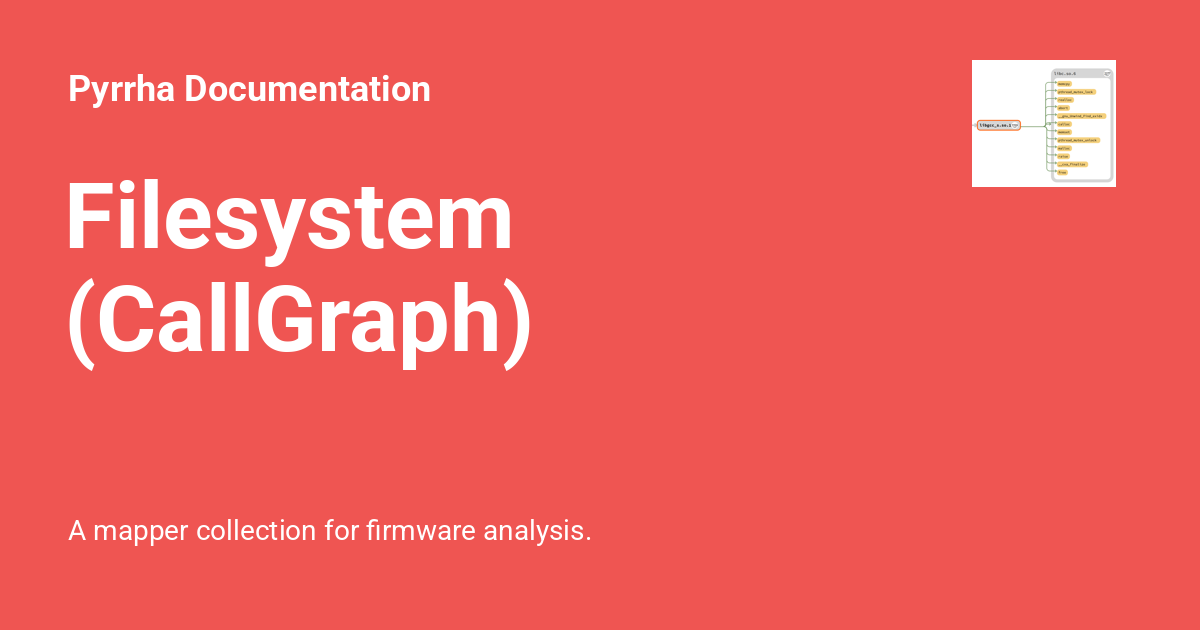
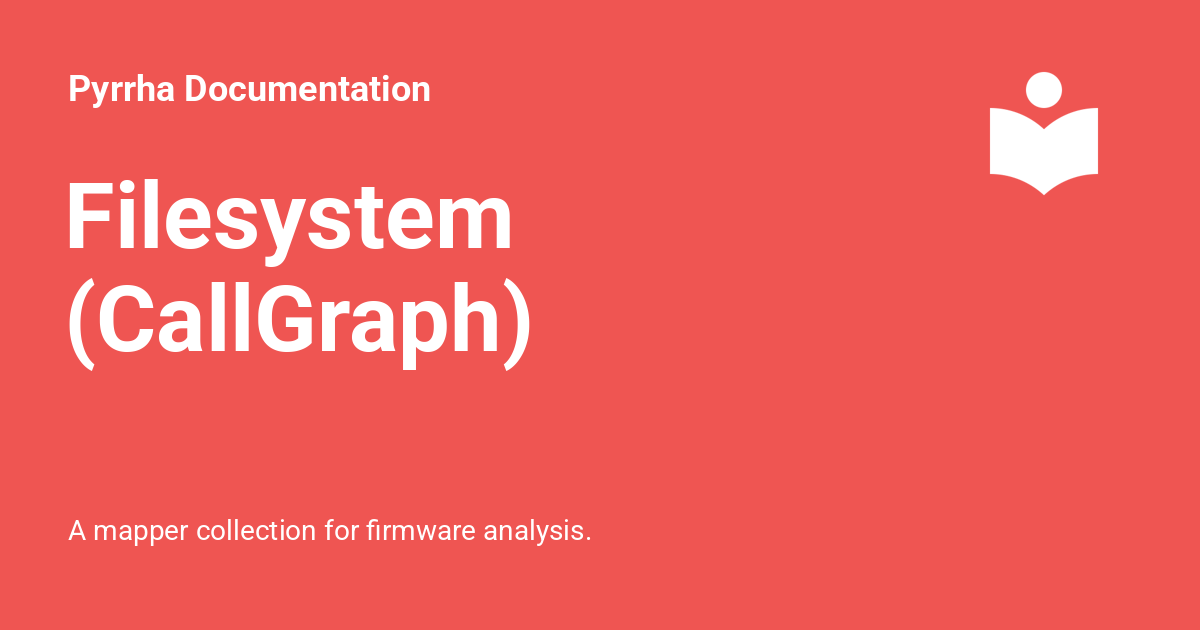
Deployed 4620d10 to v1.0.0 with MkDocs 1.6.1 and mike 2.1.3

Changed region(s): [[0.8017, 0.0905, 0.9558, 0.3016]]

diff --git a/v1.0.0/404.html b/v1.0.0/404.html
@@ -89,7 +89,8 @@
   <nav class="md-header__inner md-grid" aria-label="Header">
     <a href="/pyrrha/v1.0.0/." title="Pyrrha Documentation" class="md-header__button md-logo" aria-label="Pyrrha Documentation" data-md-component="logo">
       
-  <img src="/pyrrha/v1.0.0/img/imports_cropped.png" alt="logo">
+  
+  <svg xmlns="http://www.w3.org/2000/svg" viewBox="0 0 24 24"><path d="M12 8a3 3 0 0 0 3-3 3 3 0 0 0-3-3 3 3 0 0 0-3 3 3 3 0 0 0 3 3m0 3.54C9.64 9.35 6.5 8 3 8v11c3.5 0 6.64 1.35 9 3.54 2.36-2.19 5.5-3.54 9-3.54V8c-3.5 0-6.64 1.35-9 3.54"/></svg>
 
     </a>
     <label class="md-header__button md-icon" for="__drawer">
@@ -221,7 +222,8 @@
   <label class="md-nav__title" for="__drawer">
     <a href="/pyrrha/v1.0.0/." title="Pyrrha Documentation" class="md-nav__button md-logo" aria-label="Pyrrha Documentation" data-md-component="logo">
       
-  <img src="/pyrrha/v1.0.0/img/imports_cropped.png" alt="logo">
+  
+  <svg xmlns="http://www.w3.org/2000/svg" viewBox="0 0 24 24"><path d="M12 8a3 3 0 0 0 3-3 3 3 0 0 0-3-3 3 3 0 0 0-3 3 3 3 0 0 0 3 3m0 3.54C9.64 9.35 6.5 8 3 8v11c3.5 0 6.64 1.35 9 3.54 2.36-2.19 5.5-3.54 9-3.54V8c-3.5 0-6.64 1.35-9 3.54"/></svg>
 
     </a>
     Pyrrha Documentation

diff --git a/v1.0.0/contributing/dev_mapper/index.html b/v1.0.0/contributing/dev_mapper/index.html
@@ -135,7 +135,8 @@
   <nav class="md-header__inner md-grid" aria-label="Header">
     <a href="../.." title="Pyrrha Documentation" class="md-header__button md-logo" aria-label="Pyrrha Documentation" data-md-component="logo">
       
-  <img src="../../img/imports_cropped.png" alt="logo">
+  
+  <svg xmlns="http://www.w3.org/2000/svg" viewBox="0 0 24 24"><path d="M12 8a3 3 0 0 0 3-3 3 3 0 0 0-3-3 3 3 0 0 0-3 3 3 3 0 0 0 3 3m0 3.54C9.64 9.35 6.5 8 3 8v11c3.5 0 6.64 1.35 9 3.54 2.36-2.19 5.5-3.54 9-3.54V8c-3.5 0-6.64 1.35-9 3.54"/></svg>
 
     </a>
     <label class="md-header__button md-icon" for="__drawer">
@@ -267,7 +268,8 @@
   <label class="md-nav__title" for="__drawer">
     <a href="../.." title="Pyrrha Documentation" class="md-nav__button md-logo" aria-label="Pyrrha Documentation" data-md-component="logo">
       
-  <img src="../../img/imports_cropped.png" alt="logo">
+  
+  <svg xmlns="http://www.w3.org/2000/svg" viewBox="0 0 24 24"><path d="M12 8a3 3 0 0 0 3-3 3 3 0 0 0-3-3 3 3 0 0 0-3 3 3 3 0 0 0 3 3m0 3.54C9.64 9.35 6.5 8 3 8v11c3.5 0 6.64 1.35 9 3.54 2.36-2.19 5.5-3.54 9-3.54V8c-3.5 0-6.64 1.35-9 3.54"/></svg>
 
     </a>
     Pyrrha Documentation

diff --git a/v1.0.0/mappers/exe-decomp/index.html b/v1.0.0/mappers/exe-decomp/index.html
@@ -135,7 +135,8 @@
   <nav class="md-header__inner md-grid" aria-label="Header">
     <a href="../.." title="Pyrrha Documentation" class="md-header__button md-logo" aria-label="Pyrrha Documentation" data-md-component="logo">
       
-  <img src="../../img/imports_cropped.png" alt="logo">
+  
+  <svg xmlns="http://www.w3.org/2000/svg" viewBox="0 0 24 24"><path d="M12 8a3 3 0 0 0 3-3 3 3 0 0 0-3-3 3 3 0 0 0-3 3 3 3 0 0 0 3 3m0 3.54C9.64 9.35 6.5 8 3 8v11c3.5 0 6.64 1.35 9 3.54 2.36-2.19 5.5-3.54 9-3.54V8c-3.5 0-6.64 1.35-9 3.54"/></svg>
 
     </a>
     <label class="md-header__button md-icon" for="__drawer">
@@ -267,7 +268,8 @@
   <label class="md-nav__title" for="__drawer">
     <a href="../.." title="Pyrrha Documentation" class="md-nav__button md-logo" aria-label="Pyrrha Documentation" data-md-component="logo">
       
-  <img src="../../img/imports_cropped.png" alt="logo">
+  
+  <svg xmlns="http://www.w3.org/2000/svg" viewBox="0 0 24 24"><path d="M12 8a3 3 0 0 0 3-3 3 3 0 0 0-3-3 3 3 0 0 0-3 3 3 3 0 0 0 3 3m0 3.54C9.64 9.35 6.5 8 3 8v11c3.5 0 6.64 1.35 9 3.54 2.36-2.19 5.5-3.54 9-3.54V8c-3.5 0-6.64 1.35-9 3.54"/></svg>
 
     </a>
     Pyrrha Documentation

diff --git a/v1.0.0/mappers/fs-cg/index.html b/v1.0.0/mappers/fs-cg/index.html
@@ -135,7 +135,8 @@
   <nav class="md-header__inner md-grid" aria-label="Header">
     <a href="../.." title="Pyrrha Documentation" class="md-header__button md-logo" aria-label="Pyrrha Documentation" data-md-component="logo">
       
-  <img src="../../img/imports_cropped.png" alt="logo">
+  
+  <svg xmlns="http://www.w3.org/2000/svg" viewBox="0 0 24 24"><path d="M12 8a3 3 0 0 0 3-3 3 3 0 0 0-3-3 3 3 0 0 0-3 3 3 3 0 0 0 3 3m0 3.54C9.64 9.35 6.5 8 3 8v11c3.5 0 6.64 1.35 9 3.54 2.36-2.19 5.5-3.54 9-3.54V8c-3.5 0-6.64 1.35-9 3.54"/></svg>
 
     </a>
     <label class="md-header__button md-icon" for="__drawer">
@@ -267,7 +268,8 @@
   <label class="md-nav__title" for="__drawer">
     <a href="../.." title="Pyrrha Documentation" class="md-nav__button md-logo" aria-label="Pyrrha Documentation" data-md-component="logo">
       
-  <img src="../../img/imports_cropped.png" alt="logo">
+  
+  <svg xmlns="http://www.w3.org/2000/svg" viewBox="0 0 24 24"><path d="M12 8a3 3 0 0 0 3-3 3 3 0 0 0-3-3 3 3 0 0 0-3 3 3 3 0 0 0 3 3m0 3.54C9.64 9.35 6.5 8 3 8v11c3.5 0 6.64 1.35 9 3.54 2.36-2.19 5.5-3.54 9-3.54V8c-3.5 0-6.64 1.35-9 3.54"/></svg>
 
     </a>
     Pyrrha Documentation

diff --git a/v1.0.0/mappers/fs/index.html b/v1.0.0/mappers/fs/index.html
@@ -135,7 +135,8 @@
   <nav class="md-header__inner md-grid" aria-label="Header">
     <a href="../.." title="Pyrrha Documentation" class="md-header__button md-logo" aria-label="Pyrrha Documentation" data-md-component="logo">
       
-  <img src="../../img/imports_cropped.png" alt="logo">
+  
+  <svg xmlns="http://www.w3.org/2000/svg" viewBox="0 0 24 24"><path d="M12 8a3 3 0 0 0 3-3 3 3 0 0 0-3-3 3 3 0 0 0-3 3 3 3 0 0 0 3 3m0 3.54C9.64 9.35 6.5 8 3 8v11c3.5 0 6.64 1.35 9 3.54 2.36-2.19 5.5-3.54 9-3.54V8c-3.5 0-6.64 1.35-9 3.54"/></svg>
 
     </a>
     <label class="md-header__button md-icon" for="__drawer">
@@ -267,7 +268,8 @@
   <label class="md-nav__title" for="__drawer">
     <a href="../.." title="Pyrrha Documentation" class="md-nav__button md-logo" aria-label="Pyrrha Documentation" data-md-component="logo">
       
-  <img src="../../img/imports_cropped.png" alt="logo">
+  
+  <svg xmlns="http://www.w3.org/2000/svg" viewBox="0 0 24 24"><path d="M12 8a3 3 0 0 0 3-3 3 3 0 0 0-3-3 3 3 0 0 0-3 3 3 3 0 0 0 3 3m0 3.54C9.64 9.35 6.5 8 3 8v11c3.5 0 6.64 1.35 9 3.54 2.36-2.19 5.5-3.54 9-3.54V8c-3.5 0-6.64 1.35-9 3.54"/></svg>
 
     </a>
     Pyrrha Documentation

diff --git a/v1.0.0/mappers/mappers/index.html b/v1.0.0/mappers/mappers/index.html
@@ -135,7 +135,8 @@
   <nav class="md-header__inner md-grid" aria-label="Header">
     <a href="../.." title="Pyrrha Documentation" class="md-header__button md-logo" aria-label="Pyrrha Documentation" data-md-component="logo">
       
-  <img src="../../img/imports_cropped.png" alt="logo">
+  
+  <svg xmlns="http://www.w3.org/2000/svg" viewBox="0 0 24 24"><path d="M12 8a3 3 0 0 0 3-3 3 3 0 0 0-3-3 3 3 0 0 0-3 3 3 3 0 0 0 3 3m0 3.54C9.64 9.35 6.5 8 3 8v11c3.5 0 6.64 1.35 9 3.54 2.36-2.19 5.5-3.54 9-3.54V8c-3.5 0-6.64 1.35-9 3.54"/></svg>
 
     </a>
     <label class="md-header__button md-icon" for="__drawer">
@@ -267,7 +268,8 @@
   <label class="md-nav__title" for="__drawer">
     <a href="../.." title="Pyrrha Documentation" class="md-nav__button md-logo" aria-label="Pyrrha Documentation" data-md-component="logo">
       
-  <img src="../../img/imports_cropped.png" alt="logo">
+  
+  <svg xmlns="http://www.w3.org/2000/svg" viewBox="0 0 24 24"><path d="M12 8a3 3 0 0 0 3-3 3 3 0 0 0-3-3 3 3 0 0 0-3 3 3 3 0 0 0 3 3m0 3.54C9.64 9.35 6.5 8 3 8v11c3.5 0 6.64 1.35 9 3.54 2.36-2.19 5.5-3.54 9-3.54V8c-3.5 0-6.64 1.35-9 3.54"/></svg>
 
     </a>
     Pyrrha Documentation

diff --git a/v1.0.0/changelog/index.html b/v1.0.0/changelog/index.html
@@ -135,7 +135,8 @@
   <nav class="md-header__inner md-grid" aria-label="Header">
     <a href=".." title="Pyrrha Documentation" class="md-header__button md-logo" aria-label="Pyrrha Documentation" data-md-component="logo">
       
-  <img src="../img/imports_cropped.png" alt="logo">
+  
+  <svg xmlns="http://www.w3.org/2000/svg" viewBox="0 0 24 24"><path d="M12 8a3 3 0 0 0 3-3 3 3 0 0 0-3-3 3 3 0 0 0-3 3 3 3 0 0 0 3 3m0 3.54C9.64 9.35 6.5 8 3 8v11c3.5 0 6.64 1.35 9 3.54 2.36-2.19 5.5-3.54 9-3.54V8c-3.5 0-6.64 1.35-9 3.54"/></svg>
 
     </a>
     <label class="md-header__button md-icon" for="__drawer">
@@ -267,7 +268,8 @@
   <label class="md-nav__title" for="__drawer">
     <a href=".." title="Pyrrha Documentation" class="md-nav__button md-logo" aria-label="Pyrrha Documentation" data-md-component="logo">
       
-  <img src="../img/imports_cropped.png" alt="logo">
+  
+  <svg xmlns="http://www.w3.org/2000/svg" viewBox="0 0 24 24"><path d="M12 8a3 3 0 0 0 3-3 3 3 0 0 0-3-3 3 3 0 0 0-3 3 3 3 0 0 0 3 3m0 3.54C9.64 9.35 6.5 8 3 8v11c3.5 0 6.64 1.35 9 3.54 2.36-2.19 5.5-3.54 9-3.54V8c-3.5 0-6.64 1.35-9 3.54"/></svg>
 
     </a>
     Pyrrha Documentation

diff --git a/v1.0.0/installation/index.html b/v1.0.0/installation/index.html
@@ -135,7 +135,8 @@
   <nav class="md-header__inner md-grid" aria-label="Header">
     <a href=".." title="Pyrrha Documentation" class="md-header__button md-logo" aria-label="Pyrrha Documentation" data-md-component="logo">
       
-  <img src="../img/imports_cropped.png" alt="logo">
+  
+  <svg xmlns="http://www.w3.org/2000/svg" viewBox="0 0 24 24"><path d="M12 8a3 3 0 0 0 3-3 3 3 0 0 0-3-3 3 3 0 0 0-3 3 3 3 0 0 0 3 3m0 3.54C9.64 9.35 6.5 8 3 8v11c3.5 0 6.64 1.35 9 3.54 2.36-2.19 5.5-3.54 9-3.54V8c-3.5 0-6.64 1.35-9 3.54"/></svg>
 
     </a>
     <label class="md-header__button md-icon" for="__drawer">
@@ -267,7 +268,8 @@
   <label class="md-nav__title" for="__drawer">
     <a href=".." title="Pyrrha Documentation" class="md-nav__button md-logo" aria-label="Pyrrha Documentation" data-md-component="logo">
       
-  <img src="../img/imports_cropped.png" alt="logo">
+  
+  <svg xmlns="http://www.w3.org/2000/svg" viewBox="0 0 24 24"><path d="M12 8a3 3 0 0 0 3-3 3 3 0 0 0-3-3 3 3 0 0 0-3 3 3 3 0 0 0 3 3m0 3.54C9.64 9.35 6.5 8 3 8v11c3.5 0 6.64 1.35 9 3.54 2.36-2.19 5.5-3.54 9-3.54V8c-3.5 0-6.64 1.35-9 3.54"/></svg>
 
     </a>
     Pyrrha Documentation

diff --git a/v1.0.0/license/index.html b/v1.0.0/license/index.html
@@ -128,7 +128,8 @@
   <nav class="md-header__inner md-grid" aria-label="Header">
     <a href=".." title="Pyrrha Documentation" class="md-header__button md-logo" aria-label="Pyrrha Documentation" data-md-component="logo">
       
-  <img src="../img/imports_cropped.png" alt="logo">
+  
+  <svg xmlns="http://www.w3.org/2000/svg" viewBox="0 0 24 24"><path d="M12 8a3 3 0 0 0 3-3 3 3 0 0 0-3-3 3 3 0 0 0-3 3 3 3 0 0 0 3 3m0 3.54C9.64 9.35 6.5 8 3 8v11c3.5 0 6.64 1.35 9 3.54 2.36-2.19 5.5-3.54 9-3.54V8c-3.5 0-6.64 1.35-9 3.54"/></svg>
 
     </a>
     <label class="md-header__button md-icon" for="__drawer">
@@ -260,7 +261,8 @@
   <label class="md-nav__title" for="__drawer">
     <a href=".." title="Pyrrha Documentation" class="md-nav__button md-logo" aria-label="Pyrrha Documentation" data-md-component="logo">
       
-  <img src="../img/imports_cropped.png" alt="logo">
+  
+  <svg xmlns="http://www.w3.org/2000/svg" viewBox="0 0 24 24"><path d="M12 8a3 3 0 0 0 3-3 3 3 0 0 0-3-3 3 3 0 0 0-3 3 3 3 0 0 0 3 3m0 3.54C9.64 9.35 6.5 8 3 8v11c3.5 0 6.64 1.35 9 3.54 2.36-2.19 5.5-3.54 9-3.54V8c-3.5 0-6.64 1.35-9 3.54"/></svg>
 
     </a>
     Pyrrha Documentation

diff --git a/v1.0.0/index.html b/v1.0.0/index.html
@@ -133,7 +133,8 @@
   <nav class="md-header__inner md-grid" aria-label="Header">
     <a href="." title="Pyrrha Documentation" class="md-header__button md-logo" aria-label="Pyrrha Documentation" data-md-component="logo">
       
-  <img src="img/imports_cropped.png" alt="logo">
+  
+  <svg xmlns="http://www.w3.org/2000/svg" viewBox="0 0 24 24"><path d="M12 8a3 3 0 0 0 3-3 3 3 0 0 0-3-3 3 3 0 0 0-3 3 3 3 0 0 0 3 3m0 3.54C9.64 9.35 6.5 8 3 8v11c3.5 0 6.64 1.35 9 3.54 2.36-2.19 5.5-3.54 9-3.54V8c-3.5 0-6.64 1.35-9 3.54"/></svg>
 
     </a>
     <label class="md-header__button md-icon" for="__drawer">
@@ -265,7 +266,8 @@
   <label class="md-nav__title" for="__drawer">
     <a href="." title="Pyrrha Documentation" class="md-nav__button md-logo" aria-label="Pyrrha Documentation" data-md-component="logo">
       
-  <img src="img/imports_cropped.png" alt="logo">
+  
+  <svg xmlns="http://www.w3.org/2000/svg" viewBox="0 0 24 24"><path d="M12 8a3 3 0 0 0 3-3 3 3 0 0 0-3-3 3 3 0 0 0-3 3 3 3 0 0 0 3 3m0 3.54C9.64 9.35 6.5 8 3 8v11c3.5 0 6.64 1.35 9 3.54 2.36-2.19 5.5-3.54 9-3.54V8c-3.5 0-6.64 1.35-9 3.54"/></svg>
 
     </a>
     Pyrrha Documentation
